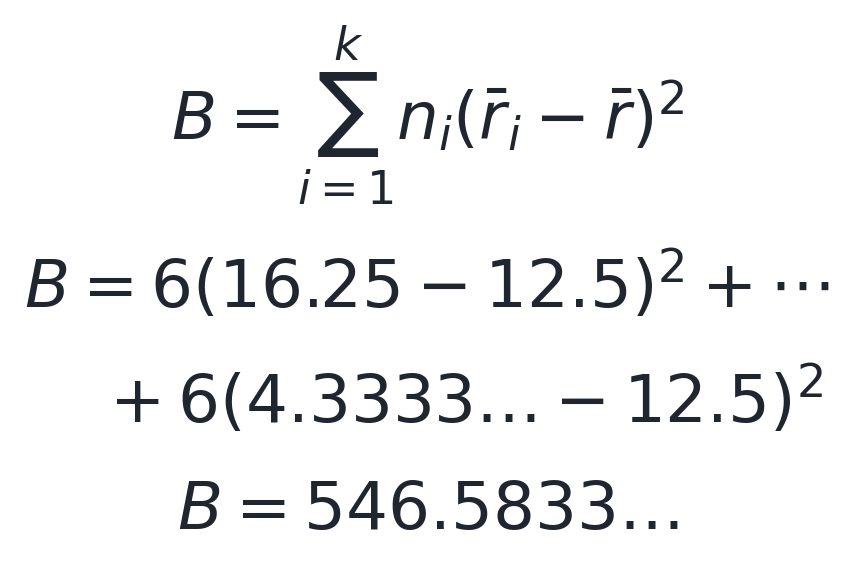
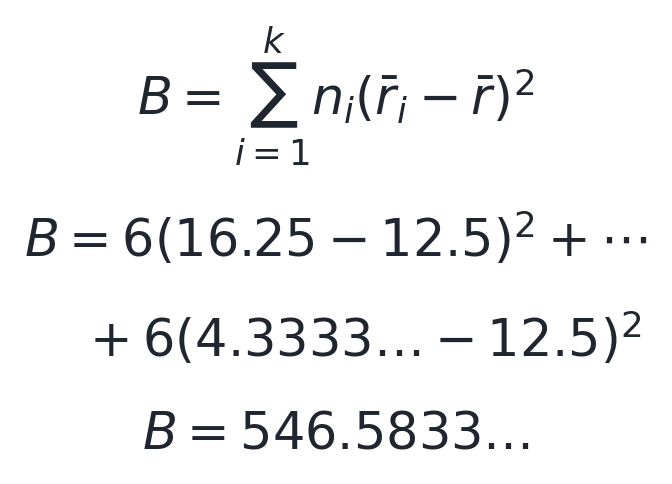
Use user-selected 17px formula typography

diff --git a/stats_classroom/article48_kruskal_wallis/手机预览.html b/stats_classroom/article48_kruskal_wallis/手机预览.html
@@ -24,7 +24,7 @@
 <table><thead><tr><th>指标/分</th><th>频数</th><th>占据序号</th><th>每个观测的秩</th></tr></thead><tbody><tr><td>−1</td><td>1</td><td>1</td><td>1</td></tr><tr><td>0</td><td>5</td><td>2—6</td><td>4</td></tr><tr><td>1</td><td>5</td><td>7—11</td><td>9</td></tr><tr><td>2</td><td>4</td><td>12—15</td><td>13.5</td></tr><tr><td>3</td><td>9</td><td>16—24</td><td>20</td></tr></tbody></table>
 <p>记总样本量为N、组数为k，第i组样本量为nᵢ；本例N＝24、k＝4，各nᵢ＝6。单只兔的合并秩记为rⱼ；第i组的秩和记为Rᵢ，平均秩记为r̄ᵢ＝Rᵢ/nᵢ。</p>
 <p>并列时用平均秩，保留了所有秩的总和。因此，合并秩的总平均仍由式（1）给出。</p>
-<p style="margin:22px 0 4px;text-align:center"><img alt="式1：合并秩的平均为一至N的序号和除以N，即(N加1)/2；24只兔的总平均秩是12.5" data-formula-font-css="22" data-formula-width="288.0" src="%E6%96%87%E7%AB%A0%E9%85%8D%E5%9B%BE/%E5%85%AC%E5%BC%8F01.png" style="display:block;width:288.0px;max-width:100%;height:auto;margin:18px auto 8px;border:0;"/></p>
+<p style="margin:22px 0 4px;text-align:center"><img alt="式1：合并秩的平均为一至N的序号和除以N，即(N加1)/2；24只兔的总平均秩是12.5" data-formula-font-css="17" data-formula-width="226.33" src="%E6%96%87%E7%AB%A0%E9%85%8D%E5%9B%BE/%E5%85%AC%E5%BC%8F01.png" style="display:block;width:226.33px;max-width:100%;height:auto;margin:18px auto 8px;border:0;"/></p>
 <p class="caption"><em>式（1）｜r̄表示所有观测的总平均秩，秩及H均无物理单位。</em></p>
 <p>按表2逐只替换评分再求和，就得到表3。例如Indomethacin组的秩和为13.5＋20＋20＋20＋20＋4＝97.5。四组秩和合计300，等于24×12.5。</p>
 <p class="caption"><em>表3｜各药物组在同一套合并秩中的位置</em></p>
@@ -34,50 +34,50 @@
 <h3>（一）先衡量各组分开了多少</h3>
 <p>每组平均秩减去总平均秩，表示这一组在共同排序中偏高还是偏低。直接相加会正负抵消，平方以后，两种方向都会增加统计量。</p>
 <p>为什么还要乘nᵢ？一组有nᵢ个观测，该组平均位置的偏离应按它代表的观测数计入。把该组每个观测都用组平均秩代表，nᵢ个相同的平方偏离相加，就得到式（2）的组间平方和B。这也正是方差分析中按组大小加权的组间变异构造。</p>
-<p style="margin:22px 0 4px;text-align:center"><img alt="式2：B为各组样本量乘平均秩离总平均秩的平方之和；兔例B等于546.5833" data-formula-font-css="22" data-formula-width="285.0" src="%E6%96%87%E7%AB%A0%E9%85%8D%E5%9B%BE/%E5%85%AC%E5%BC%8F02.png" style="display:block;width:285.0px;max-width:100%;height:auto;margin:18px auto 8px;border:0;"/></p>
+<p style="margin:22px 0 4px;text-align:center"><img alt="式2：B为各组样本量乘平均秩离总平均秩的平方之和；兔例B等于546.5833" data-formula-font-css="17" data-formula-width="224.0" src="%E6%96%87%E7%AB%A0%E9%85%8D%E5%9B%BE/%E5%85%AC%E5%BC%8F02.png" style="display:block;width:224.0px;max-width:100%;height:auto;margin:18px auto 8px;border:0;"/></p>
 <p class="caption"><em>式（2）｜B衡量组间平均秩的分开程度；数字演示省略的中间两项来自Aspirin和Piroxicam，实际计算包含四组全部贡献。</em></p>
 <p><strong>同样的平均秩偏离，出现在较大的组中，提供的证据通常更多</strong>：在相同的合并秩和总样本量下，大组平均秩的随机波动也更小。不过，B的大小还随总样本量和秩的取值范围改变，单看546.5833，仍无法判断异常程度。</p>
 <h3>（二）先看随机分组时，平均秩怎样波动</h3>
 <p>在H₀下，给定已经观察到的24个指标及四组大小，兔与组标签的对应可以交换。可以把24个合并秩写在24张有各自身份的签上，不放回地抽6张给第一组，再抽6张给第二组，直到分完。</p>
 <p>分组在变化，签上的数值没有变。式（3）先定义这套固定秩的方差sᵣ²。再把分配顺序中的第a个位置收到的秩记为Yₐ：每个位置都有同样的机会收到任意一张签，平均值是总平均秩r̄。</p>
-<p style="margin:22px 0 4px;text-align:center"><img alt="式3：固定合并秩的样本方差以N减1为分母；随机位置收到的秩Y的均值为总平均秩，方差为(N减1)/N乘s_r平方" data-formula-font-css="22" data-formula-width="236.0" src="%E6%96%87%E7%AB%A0%E9%85%8D%E5%9B%BE/%E5%85%AC%E5%BC%8F03.png" style="display:block;width:236.0px;max-width:100%;height:auto;margin:18px auto 8px;border:0;"/></p>
+<p style="margin:22px 0 4px;text-align:center"><img alt="式3：固定合并秩的样本方差以N减1为分母；随机位置收到的秩Y的均值为总平均秩，方差为(N减1)/N乘s_r平方" data-formula-font-css="17" data-formula-width="186.0" src="%E6%96%87%E7%AB%A0%E9%85%8D%E5%9B%BE/%E5%85%AC%E5%BC%8F03.png" style="display:block;width:186.0px;max-width:100%;height:auto;margin:18px auto 8px;border:0;"/></p>
 <p class="caption"><em>式（3）｜rⱼ是固定的第j个观测的秩；Yₐ是随机分配到第a个位置的秩。下标0表示在H₀下、给定合并秩计算。</em></p>
 <p>这里有两个分母：sᵣ²按通常样本方差的定义除以N−1；一个随机位置的秩，则等概率取这N个数，计算方差时除以N，所以它的方差是(N−1)/N倍的sᵣ²。</p>
 <p><strong>两次不放回抽取并不独立。</strong> 一个位置拿走高秩，留给其他位置的平均秩就会降低。更准确地说，所有位置的秩之和固定，因此这个总和的方差为0。各位置地位相同，任意两个不同位置的协方差也相同。式（3a）把总和的方差展开，就能求出这项负协方差。</p>
-<p style="margin:22px 0 4px;text-align:center"><img alt="式3a：全部位置秩的总和固定，因此总和方差为0；N个自身方差与N(N减1)个交叉协方差相加为0，得到不同位置协方差为负s_r平方除以N" data-formula-font-css="22" data-formula-width="308.0" src="%E6%96%87%E7%AB%A0%E9%85%8D%E5%9B%BE/%E5%85%AC%E5%BC%8F03a.png" style="display:block;width:308.0px;max-width:100%;height:auto;margin:18px auto 8px;border:0;"/></p>
+<p style="margin:22px 0 4px;text-align:center"><img alt="式3a：全部位置秩的总和固定，因此总和方差为0；N个自身方差与N(N减1)个交叉协方差相加为0，得到不同位置协方差为负s_r平方除以N" data-formula-font-css="17" data-formula-width="242.0" src="%E6%96%87%E7%AB%A0%E9%85%8D%E5%9B%BE/%E5%85%AC%E5%BC%8F03a.png" style="display:block;width:242.0px;max-width:100%;height:auto;margin:18px auto 8px;border:0;"/></p>
 <p class="caption"><em>式（3a）｜a、b为两个不同的分配位置；Cov表示协方差，用来描述两个随机量如何一起变化。</em></p>
 <p>把重分组后第i组的随机平均秩记为Ȳᵢ，它是该组nᵢ个位置的Y求平均。表3中的r̄ᵢ则是实际分组得到的观察值。计算Ȳᵢ的方差时，要把nᵢ个自身方差和nᵢ(nᵢ−1)个交叉协方差一起计入，再除以nᵢ²。式（3b）代入刚求出的两种波动，得到组平均秩的方差；不同组之间的每一对位置也都贡献同样的负协方差。</p>
-<p style="margin:22px 0 4px;text-align:center"><img alt="式3b：把组内各位置方差与协方差相加得到组平均秩方差s_r平方乘(1/n_i减1/N)；不同组平均秩协方差为负s_r平方除以N" data-formula-font-css="22" data-formula-width="269.0" src="%E6%96%87%E7%AB%A0%E9%85%8D%E5%9B%BE/%E5%85%AC%E5%BC%8F03b.png" style="display:block;width:269.0px;max-width:100%;height:auto;margin:18px auto 8px;border:0;"/></p>
+<p style="margin:22px 0 4px;text-align:center"><img alt="式3b：把组内各位置方差与协方差相加得到组平均秩方差s_r平方乘(1/n_i减1/N)；不同组平均秩协方差为负s_r平方除以N" data-formula-font-css="17" data-formula-width="211.67" src="%E6%96%87%E7%AB%A0%E9%85%8D%E5%9B%BE/%E5%85%AC%E5%BC%8F03b.png" style="display:block;width:211.67px;max-width:100%;height:auto;margin:18px auto 8px;border:0;"/></p>
 <p class="caption"><em>式（3b）｜Ȳᵢ、Ȳℓ随重分组改变；i与ℓ表示不同组。本例nᵢ＝6、N＝24，所以每组平均秩方差为sᵣ²/8，不同组平均秩协方差为−sᵣ²/24。</em></p>
 <p>这就是“不放回”的修正从哪里来。研究设计中，不同兔之间独立；在这里，我们固定全部观测后重分组，各组统计量还受共同总秩和的约束。</p>
 <h3>（三）用同一套秩波动，给组间平方和定尺度</h3>
 <p>H₀下，随机平均秩Ȳᵢ都以r̄为中心，所以它离r̄的平方偏离，平均起来就是式（3b）的方差。式（3c）将每组的贡献乘nᵢ相加，得到B的平均水平。</p>
-<p style="margin:22px 0 4px;text-align:center"><img alt="式3c：B的零假设期望等于各组样本量乘平均秩方差之和，等于(k减1)s_r平方；定义H为B除以s_r平方后，其期望为k减1" data-formula-font-css="22" data-formula-width="280.67" src="%E6%96%87%E7%AB%A0%E9%85%8D%E5%9B%BE/%E5%85%AC%E5%BC%8F03c.png" style="display:block;width:280.67px;max-width:100%;height:auto;margin:18px auto 8px;border:0;"/></p>
+<p style="margin:22px 0 4px;text-align:center"><img alt="式3c：B的零假设期望等于各组样本量乘平均秩方差之和，等于(k减1)s_r平方；定义H为B除以s_r平方后，其期望为k减1" data-formula-font-css="17" data-formula-width="220.67" src="%E6%96%87%E7%AB%A0%E9%85%8D%E5%9B%BE/%E5%85%AC%E5%BC%8F03c.png" style="display:block;width:220.67px;max-width:100%;height:auto;margin:18px auto 8px;border:0;"/></p>
 <p class="caption"><em>式（3c）｜期望对随机重分组取；B随分组改变，全部组的nᵢ/N相加为1。这一关系在有限样本下就成立。</em></p>
 <p>因此，H用<strong>组间的平方偏离B，除以这套合并秩的方差sᵣ²</strong>，将不同样本量和秩范围下的B放到共同尺度上。它与刚才的组平均秩方差、组间协方差使用同一套波动依据。</p>
 <p>算出H的平均水平是k−1，还不能据此认定它服从χ²。第六节会继续用式（3b）的方差和协方差，将本例H拆成三个标准化差的平方和，再说明大样本分布。</p>
 <p>先看没有并列的情况。秩就是1到N，利用连续整数及其平方的求和公式，式（4）得到围绕总平均秩的平方离差和及秩方差，也就得到未经并列校正的H∗。</p>
-<p style="margin:22px 0 4px;text-align:center"><img alt="式4：无并列时总秩平方和为N(N平方减1)/12；秩样本方差为N(N加1)/12；H星为B除以该方差" data-formula-font-css="22" data-formula-width="252.0" src="%E6%96%87%E7%AB%A0%E9%85%8D%E5%9B%BE/%E5%85%AC%E5%BC%8F04.png" style="display:block;width:252.0px;max-width:100%;height:auto;margin:18px auto 8px;border:0;"/></p>
+<p style="margin:22px 0 4px;text-align:center"><img alt="式4：无并列时总秩平方和为N(N平方减1)/12；秩样本方差为N(N加1)/12；H星为B除以该方差" data-formula-font-css="17" data-formula-width="198.67" src="%E6%96%87%E7%AB%A0%E9%85%8D%E5%9B%BE/%E5%85%AC%E5%BC%8F04.png" style="display:block;width:198.67px;max-width:100%;height:auto;margin:18px auto 8px;border:0;"/></p>
 <p class="caption"><em>式（4）｜base下标表示无并列时的基准秩方差；12来自连续整数的方差公式。没有并列时，H＝H∗。</em></p>
 <h3>（四）熟悉的秩和公式，只是把B展开</h3>
 <p>课堂常用的公式写成“秩和平方除以组大小，再求和”。式（5）用Rᵢ＝nᵢr̄ᵢ和固定的总秩和，把式（2）展开。</p>
-<p style="margin:22px 0 4px;text-align:center"><img alt="式5：把平均秩换成秩和，B等于秩和平方除组大小的总和减N乘总平均秩平方；代入得到H星的课堂公式" data-formula-font-css="22" data-formula-width="245.33" src="%E6%96%87%E7%AB%A0%E9%85%8D%E5%9B%BE/%E5%85%AC%E5%BC%8F05.png" style="display:block;width:245.33px;max-width:100%;height:auto;margin:18px auto 8px;border:0;"/></p>
+<p style="margin:22px 0 4px;text-align:center"><img alt="式5：把平均秩换成秩和，B等于秩和平方除组大小的总和减N乘总平均秩平方；代入得到H星的课堂公式" data-formula-font-css="17" data-formula-width="193.33" src="%E6%96%87%E7%AB%A0%E9%85%8D%E5%9B%BE/%E5%85%AC%E5%BC%8F05.png" style="display:block;width:193.33px;max-width:100%;height:auto;margin:18px auto 8px;border:0;"/></p>
 <p class="caption"><em>式（5）｜Rᵢ为第i组秩和，求和涵盖全部k组；末尾的−3(N＋1)来自减去共同中心。</em></p>
 <p>这样，12、N(N＋1)和−3(N＋1)都有了来处：前两者来自秩波动的尺度，最后一项来自围绕总平均秩计算偏离。H∗的核心始终是“各组平均秩分开了多少”。</p>
 <h2>四、有并列值，为什么要除以C？</h2>
 <p>本例并列很多，不能继续把1到24互不相同的秩方差直接用到底。</p>
 <p>平均秩保留总和，却压缩了波动。就看表2中本例的5个0分：它们原来占第2至6位，现在都取平均秩4。式（6）计算这一步消掉的平方偏离；连续t个序号的一般结果，可由式（4）将N换为t得到。</p>
-<p style="margin:22px 0 4px;text-align:center"><img alt="式6：本例0分对应秩2到6，全部换成4后消掉平方偏离10；t个连续秩取平均会损失(t立方减t)/12" data-formula-font-css="22" data-formula-width="317.0" src="%E6%96%87%E7%AB%A0%E9%85%8D%E5%9B%BE/%E5%85%AC%E5%BC%8F06.png" style="display:block;width:317.0px;max-width:100%;height:auto;margin:18px auto 8px;border:0;"/></p>
+<p style="margin:22px 0 4px;text-align:center"><img alt="式6：本例0分对应秩2到6，全部换成4后消掉平方偏离10；t个连续秩取平均会损失(t立方减t)/12" data-formula-font-css="17" data-formula-width="248.67" src="%E6%96%87%E7%AB%A0%E9%85%8D%E5%9B%BE/%E5%85%AC%E5%BC%8F06.png" style="display:block;width:248.67px;max-width:100%;height:auto;margin:18px auto 8px;border:0;"/></p>
 <p class="caption"><em>式（6）｜t是同一观测值的个数。连续序号整体平移不改变它们围绕自身平均数的平方和。</em></p>
 <p>虽然式（6）先围绕这一小段的平均秩4计算，但围绕总平均秩12.5计算时，损失仍是10：替换前后，这5个秩的总和相同，整段相对总中心的那部分偏离保留下来，只消掉段内的分散。</p>
 <p>对表2的五种取值分别计算，并列损失依次是0、10、10、5、60，合计85。若1到24互不并列，总秩平方和为1150、秩方差为50。式（7）从这里一步步得到本例的实际方差及其比例C。</p>
-<p style="margin:22px 0 4px;text-align:center"><img alt="式7：兔例无并列总秩平方和1150减去并列损失85得到1065；实际秩方差1065/23约46.30435；除以无并列方差50得到C约0.926087" data-formula-font-css="22" data-formula-width="318.33" src="%E6%96%87%E7%AB%A0%E9%85%8D%E5%9B%BE/%E5%85%AC%E5%BC%8F07.png" style="display:block;width:318.33px;max-width:100%;height:auto;margin:18px auto 8px;border:0;"/></p>
+<p style="margin:22px 0 4px;text-align:center"><img alt="式7：兔例无并列总秩平方和1150减去并列损失85得到1065；实际秩方差1065/23约46.30435；除以无并列方差50得到C约0.926087" data-formula-font-css="17" data-formula-width="249.67" src="%E6%96%87%E7%AB%A0%E9%85%8D%E5%9B%BE/%E5%85%AC%E5%BC%8F07.png" style="display:block;width:249.67px;max-width:100%;height:auto;margin:18px auto 8px;border:0;"/></p>
 <p class="caption"><em>式（7）｜平方和都围绕总平均秩12.5计算；sᵣ²使用N−1＝23的分母。C是实际秩方差与无并列基准方差的比。</em></p>
 <p>这样看，C记录的就是<strong>并列以后，还保留了原来多少比例的秩波动</strong>。对任意数据，把每个并列块的损失相加，再除以无并列总平方和，就得到式（7a）的通用校正公式。单个观测t＝1时，损失为0<sup>[2]</sup>。</p>
-<p style="margin:22px 0 4px;text-align:center"><img alt="式7a：C等于1减各并列块(t立方减t)之和除以(N立方减N)，实际合并秩方差等于无并列基准方差乘C" data-formula-font-css="22" data-formula-width="200.33" src="%E6%96%87%E7%AB%A0%E9%85%8D%E5%9B%BE/%E5%85%AC%E5%BC%8F07a.png" style="display:block;width:200.33px;max-width:100%;height:auto;margin:18px auto 8px;border:0;"/></p>
+<p style="margin:22px 0 4px;text-align:center"><img alt="式7a：C等于1减各并列块(t立方减t)之和除以(N立方减N)，实际合并秩方差等于无并列基准方差乘C" data-formula-font-css="17" data-formula-width="158.67" src="%E6%96%87%E7%AB%A0%E9%85%8D%E5%9B%BE/%E5%85%AC%E5%BC%8F07a.png" style="display:block;width:158.67px;max-width:100%;height:auto;margin:18px auto 8px;border:0;"/></p>
 <p class="caption"><em>式（7a）｜tℓ是第ℓ种取值的频数，本例为1、5、5、4、9；各块的tℓ³−tℓ合计1020，除以12就是总损失85。</em></p>
 <p><strong>H仍然等于B除以实际合并秩方差。</strong> 原来的H∗除以基准方差50；现在分母换成50C，便得到式（8）的H∗除以C。</p>
-<p style="margin:22px 0 4px;text-align:center"><img alt="式8：校正H等于B除以实际秩方差，也等于H星除以C；兔例546.583333除以46.304348得到H约11.8041471" data-formula-font-css="22" data-formula-width="248.0" src="%E6%96%87%E7%AB%A0%E9%85%8D%E5%9B%BE/%E5%85%AC%E5%BC%8F08.png" style="display:block;width:248.0px;max-width:100%;height:auto;margin:18px auto 8px;border:0;"/></p>
+<p style="margin:22px 0 4px;text-align:center"><img alt="式8：校正H等于B除以实际秩方差，也等于H星除以C；兔例546.583333除以46.304348得到H约11.8041471" data-formula-font-css="17" data-formula-width="195.33" src="%E6%96%87%E7%AB%A0%E9%85%8D%E5%9B%BE/%E5%85%AC%E5%BC%8F08.png" style="display:block;width:195.33px;max-width:100%;height:auto;margin:18px auto 8px;border:0;"/></p>
 <p class="caption"><em>式（8）｜程序使用未舍入的中间量；分母从无并列基准改为实际秩方差，说明了为什么是除以C。</em></p>
 <p>若所有观测都相同，实际秩方差为0，所有组平均秩也完全相同，H成为0/0，没有可供这种检验使用的秩变异。通常只要秩方差非零，便可按式（8）计算。</p>
 <p>把秩代入普通ANOVA，也能得到同一个组间平方和B和总平方和；但普通ANOVA构造的是组间与组内均方之比F，并使用F参照。<strong>变异分解相通，不等于可以把普通ANOVA的F检验P值直接当作KW的P值。</strong></p>
@@ -87,7 +87,7 @@
 <p>在独立、各组同分布的H₀下，给定这些观测和各组大小，组标签可交换。保留四组各6只，把24只<strong>有各自身份的兔</strong>重新分到四个有名称的组；每一个允许的身份划分等概率。每轮对新分组求秩和、B和H，就产生H的条件零分布。秩方法与置换推断正是在这里接起来的<sup>[2]</sup>。</p>
 <p>“固定观测”也意味着并列频数不变，因此总平均秩、秩方差及C每轮都相同，只有秩怎样分到各组发生变化。在这套固定观测上，H、H∗和B给出同一尾部排序，按大值选出的分组完全相同。</p>
 <p>如果逐一计算全部合法划分，式（9）就给出精确条件P值。M是合法划分的总数，#表示满足条件的划分个数。</p>
-<p style="margin:22px 0 4px;text-align:center"><img alt="式9：合法分组总数M为N阶乘除以各组样本量阶乘之积；精确P是H达到或超过观察值的划分数除以M" data-formula-font-css="22" data-formula-width="275.67" src="%E6%96%87%E7%AB%A0%E9%85%8D%E5%9B%BE/%E5%85%AC%E5%BC%8F09.png" style="display:block;width:275.67px;max-width:100%;height:auto;margin:18px auto 8px;border:0;"/></p>
+<p style="margin:22px 0 4px;text-align:center"><img alt="式9：合法分组总数M为N阶乘除以各组样本量阶乘之积；精确P是H达到或超过观察值的划分数除以M" data-formula-font-css="17" data-formula-width="217.0" src="%E6%96%87%E7%AB%A0%E9%85%8D%E5%9B%BE/%E5%85%AC%E5%BC%8F09.png" style="display:block;width:217.0px;max-width:100%;height:auto;margin:18px auto 8px;border:0;"/></p>
 <p class="caption"><em>式（9）｜固定各组大小、单位身份划分等概率；尾部包含H等于观察值的情况，也包括观察到的划分。</em></p>
 <p>这正是<strong>小样本精确检验</strong>的思路。它不靠原始评分正态，也不靠把H先近似成某条连续曲线。精确算法还可以用递推等办法汇总同样的概率，不一定要实际列出每个划分。</p>
 <p>并列值不会破坏这个思路，但会使多个身份划分产生同一套组内秩。如果为了加速把重复秩格局合并，就必须保留它们对应的<strong>组合数权重</strong>。等概率的是合法的身份划分，合并后的不同秩格局未必等概率。</p>
@@ -98,29 +98,29 @@
 <p>先比较第一组与第二组；再把前两组作为一个合并组，比较它们的平均秩与第三组；最后把前三组合并，与第四组比较。四组就这样经过三次合并，成为一个总体。</p>
 <p>每个差都需要除以它在H₀下的标准差。以第一步为例，差的方差是“两组各自的方差之和，减去两倍协方差”。代入式（3b），两项−sᵣ²/N会与协方差项抵消，得到2sᵣ²/n。</p>
 <p>这个抵消对任意两个互不重叠的合并块也成立：两块各有m、n个观测，差的方差便是sᵣ²(1/m＋1/n)。因此，三步所用的块大小分别为6与6、12与6、18与6。式（10）先写出通用的差方差，再列出对应的三个标准化差Z₁、Z₂、Z₃。</p>
-<p style="margin:22px 0 4px;text-align:center"><img alt="式10：用零假设标准差缩放三步平均秩差，Z1比较第一与第二组，Z2比较前两组平均与第三组，Z3比较前三组平均与第四组" data-formula-font-css="22" data-formula-width="285.67" src="%E6%96%87%E7%AB%A0%E9%85%8D%E5%9B%BE/%E5%85%AC%E5%BC%8F10.png" style="display:block;width:285.67px;max-width:100%;height:auto;margin:18px auto 8px;border:0;"/></p>
+<p style="margin:22px 0 4px;text-align:center"><img alt="式10：用零假设标准差缩放三步平均秩差，Z1比较第一与第二组，Z2比较前两组平均与第三组，Z3比较前三组平均与第四组" data-formula-font-css="17" data-formula-width="224.67" src="%E6%96%87%E7%AB%A0%E9%85%8D%E5%9B%BE/%E5%85%AC%E5%BC%8F10.png" style="display:block;width:224.67px;max-width:100%;height:auto;margin:18px auto 8px;border:0;"/></p>
 <p class="caption"><em>式（10）｜d表示两个互不重叠块的随机平均秩之差。三个Z的分母分别对应块大小6与6、12与6、18与6；这里n＝6。等组量的合并平均，就是各组平均秩的算术平均。</em></p>
 <p>代入本次观察值，第一步的差为2.083333，标准差约3.928713，Z₁约0.530284；第二步按式（10）代入m＝12、n＝6，标准差约3.402365。表4列出三个Z的观察值和各自平方贡献。</p>
 <p class="caption"><em>表4｜兔例H分解成三个标准化差的平方贡献</em></p>
 <table><thead><tr><th>合并步骤</th><th>观察Z值</th><th>Z²贡献</th></tr></thead><tbody><tr><td>第1组与第2组</td><td>0.530284</td><td>0.281201</td></tr><tr><td>前2组与第3组</td><td>−0.012246</td><td>0.000150</td></tr><tr><td>前3组与第4组</td><td>3.394524</td><td>11.522796</td></tr><tr><td>平方贡献合计</td><td>—</td><td>11.804147</td></tr></tbody></table>
 <p>前三药之间在前两步贡献很小，前三药与BW755C的分离贡献了大部分H。这里的三步是理解整体统计量的一种分解；整体检验的结论仍由一个H判断。</p>
 <p>为什么平方贡献相加，恰好等于H？四组等量，在任意一次重分组中，四个Ȳᵢ的平均都是固定的总平均秩r̄。把式（10）的三个平方展开，利用四个Ȳᵢ偏离r̄的和为0，就得到式（10a）的恒等式。</p>
-<p style="margin:22px 0 4px;text-align:center"><img alt="式10a：三个标准化差的平方和恰为n除以s_r平方乘四组平均秩偏离总平均秩的平方和，即B除以s_r平方，也就是H" data-formula-font-css="22" data-formula-width="204.67" src="%E6%96%87%E7%AB%A0%E9%85%8D%E5%9B%BE/%E5%85%AC%E5%BC%8F10a.png" style="display:block;width:204.67px;max-width:100%;height:auto;margin:18px auto 8px;border:0;"/></p>
+<p style="margin:22px 0 4px;text-align:center"><img alt="式10a：三个标准化差的平方和恰为n除以s_r平方乘四组平均秩偏离总平均秩的平方和，即B除以s_r平方，也就是H" data-formula-font-css="17" data-formula-width="162.0" src="%E6%96%87%E7%AB%A0%E9%85%8D%E5%9B%BE/%E5%85%AC%E5%BC%8F10a.png" style="display:block;width:162.0px;max-width:100%;height:auto;margin:18px auto 8px;border:0;"/></p>
 <p class="caption"><em>式（10a）｜这是本例四组等量时的代数恒等式，有限样本也成立；它本身还没有使用正态近似。</em></p>
 <h3>（二）为什么这三个差，在大样本下可以当作独立标准正态量？</h3>
 <p>式（3b）已经说明，四个组平均秩彼此相关。经过式（10）这种安排，三个差的系数却会让交叉协方差抵消。</p>
 <p>看前两步就能理解：第一步中，前两组一正一负；第二步中，前两组各占一半，权重相同。因为两组的方差相同、与其余组的协方差也相同，正负两部分的协方差贡献恰好抵消。第三步与前两步也有相同的抵消结构。式（10b）把前两步的未标准化差D₁、D₂实际展开一次：各组方差相同、不同组协方差相同，正负项便逐项抵消。除以固定标准差后，协方差仍为0。</p>
-<p style="margin:22px 0 4px;text-align:center"><img alt="式10b：前两步未标准化差为Y1减Y2和前两组均值减Y3，协方差展开后自身方差相减、不同组协方差相减，得到0" data-formula-font-css="22" data-formula-width="323.67" src="%E6%96%87%E7%AB%A0%E9%85%8D%E5%9B%BE/%E5%85%AC%E5%BC%8F10b.png" style="display:block;width:323.67px;max-width:100%;height:auto;margin:18px auto 8px;border:0;"/></p>
+<p style="margin:22px 0 4px;text-align:center"><img alt="式10b：前两步未标准化差为Y1减Y2和前两组均值减Y3，协方差展开后自身方差相减、不同组协方差相减，得到0" data-formula-font-css="17" data-formula-width="254.0" src="%E6%96%87%E7%AB%A0%E9%85%8D%E5%9B%BE/%E5%85%AC%E5%BC%8F10b.png" style="display:block;width:254.0px;max-width:100%;height:auto;margin:18px auto 8px;border:0;"/></p>
 <p class="caption"><em>式（10b）｜v是每组随机平均秩的方差，c是任意不同组平均秩的协方差；本例v＝5.7880435、c＝−1.9293478。D₁、D₂分别是式（10）Z₁、Z₂的分子。</em></p>
 <p>因此，三个Z的均值均为0、方差均为1，彼此协方差为0。</p>
 <p><strong>有限样本下，零协方差还不能推出独立或正态。</strong> 当组数固定、各组样本量增长、各组比例不趋于0，且秩的总变异非零、没有极少数观测支配它，满足秩和中心极限定理的常规条件时，这些组秩统计量才有联合正态极限。趋近正态的是H₀下重分组产生的统计量；原始评分不必正态<sup>[2]</sup>。</p>
 <p>在联合正态极限中，零协方差才进一步给出独立。于是Z₁、Z₂、Z₃趋近三个独立标准正态量，它们的平方和H就趋近χ²(3)。</p>
 <h3>（三）为什么一般是k−1个方向？</h3>
 <p>组大小不等时，每次合并要按人数加权。若前面的合并组有m个观测，新加入的组有n个观测，式（10c）给出两者平均秩差的标准差，以及这一步记录的组间平方和贡献。</p>
-<p style="margin:22px 0 4px;text-align:center"><img alt="式10c：合并m个与n个观测的两部分时，平均秩差标准差为s_r乘根号(1/m加1/n)，新增组间平方和为mn除以m加n乘平均秩差平方；除以s_r平方就是本步Z平方" data-formula-font-css="22" data-formula-width="213.67" src="%E6%96%87%E7%AB%A0%E9%85%8D%E5%9B%BE/%E5%85%AC%E5%BC%8F10c.png" style="display:block;width:213.67px;max-width:100%;height:auto;margin:18px auto 8px;border:0;"/></p>
+<p style="margin:22px 0 4px;text-align:center"><img alt="式10c：合并m个与n个观测的两部分时，平均秩差标准差为s_r乘根号(1/m加1/n)，新增组间平方和为mn除以m加n乘平均秩差平方；除以s_r平方就是本步Z平方" data-formula-font-css="17" data-formula-width="169.0" src="%E6%96%87%E7%AB%A0%E9%85%8D%E5%9B%BE/%E5%85%AC%E5%BC%8F10c.png" style="display:block;width:169.0px;max-width:100%;height:auto;margin:18px auto 8px;border:0;"/></p>
 <p class="caption"><em>式（10c）｜d为合并前两部分的平均秩之差；ΔB表示这一步记录的组间平方和贡献，sᵣ仍来自全部N个合并秩。</em></p>
 <p>每加入一组，就增加一个标准化差。k组需要k−1次合并；各次新增平方和加起来，就是总的B。因此，不等组量也能将H写成k−1个这类标准化差的平方和。按人数加权后，新一步对前面各组的同向权重，与先前差中的正负权重相抵消，仍得到零协方差。它们在上述渐近条件下具有独立标准正态极限，所以得到式（10d）的χ²(k−1)参照。</p>
-<p style="margin:22px 0 4px;text-align:center"><img alt="式10d：在零假设与常规渐近条件下H趋近自由度k减1的卡方分布，近似P为该分布达到或超过观察H的右尾概率" data-formula-font-css="22" data-formula-width="248.67" src="%E6%96%87%E7%AB%A0%E9%85%8D%E5%9B%BE/%E5%85%AC%E5%BC%8F10d.png" style="display:block;width:248.67px;max-width:100%;height:auto;margin:18px auto 8px;border:0;"/></p>
+<p style="margin:22px 0 4px;text-align:center"><img alt="式10d：在零假设与常规渐近条件下H趋近自由度k减1的卡方分布，近似P为该分布达到或超过观察H的右尾概率" data-formula-font-css="17" data-formula-width="196.0" src="%E6%96%87%E7%AB%A0%E9%85%8D%E5%9B%BE/%E5%85%AC%E5%BC%8F10d.png" style="display:block;width:196.0px;max-width:100%;height:auto;margin:18px auto 8px;border:0;"/></p>
 <p class="caption"><em>式（10d）｜箭头表示大样本分布趋近；近似的是前一节由标签重分配产生的条件零分布及其右尾概率。</em></p>
 <p>总秩和固定，使k组平均秩的偏离受一个约束；逐次合并只需k−1步，也从计算上看到了同一个自由度。小样本时，前面的代数分解仍成立，但正态极限未必足够接近，不能把它直接当作精确χ²分布。</p>
 <p>兔例k＝4，自由度为3。按式（10d）算得χ²近似P＝0.00808509。R的<code>kruskal.test()</code>接受“响应变量～分组变量”的公式；<code>data</code>指定数据表，返回的检验对象包含校正后统计量、近似自由度和P值。<strong>这个函数采用χ²近似，小样本也不会自动切换到精确枚举</strong><sup>[3]</sup>。</p>
@@ -137,7 +137,7 @@ c(H = unname(fit$statistic),
 <p>假设另有一个培养实验：6个相互独立的培养瓶随机分到A、B、C三种培养条件，每组2瓶。在相同培养时间结束时，每瓶测一次产物浓度，单位为mg/L。全部假设数据为：<strong>A组1、2；B组3、4；C组5、6</strong>。本例无缺失、无并列。</p>
 <p>本例检验H₀：三组浓度总体分布相同；在H₀下，给定这6个观测及每组2瓶，培养条件标签可交换。检验水准为0.05。我们要计算观察到的H、完整枚举的精确P，以及χ²近似P，比较两种推断方式。</p>
 <p>六个数的秩恰为1到6，总平均秩是3.5。式（11）先算这次实际分组的H。</p>
-<p style="margin:22px 0 4px;text-align:center"><img alt="式11：三组平均秩1.5、3.5、5.5，以样本量2加权求偏离平方并标准化，H为32/7约4.5714286" data-formula-font-css="22" data-formula-width="329.0" src="%E6%96%87%E7%AB%A0%E9%85%8D%E5%9B%BE/%E5%85%AC%E5%BC%8F11.png" style="display:block;width:329.0px;max-width:100%;height:auto;margin:18px auto 8px;border:0;"/></p>
+<p style="margin:22px 0 4px;text-align:center"><img alt="式11：三组平均秩1.5、3.5、5.5，以样本量2加权求偏离平方并标准化，H为32/7约4.5714286" data-formula-font-css="17" data-formula-width="258.0" src="%E6%96%87%E7%AB%A0%E9%85%8D%E5%9B%BE/%E5%85%AC%E5%BC%8F11.png" style="display:block;width:258.0px;max-width:100%;height:auto;margin:18px auto 8px;border:0;"/></p>
 <p class="caption"><em>式（11）｜本例N＝6、k＝3、各nᵢ＝2；无并列，无需并列校正。</em></p>
 <p>接下来，从6个有身份的瓶中选2个给A组，有15种选择；再从剩下4个中选2个给B组，有6种；最后2个自动归C组。于是，总共15×6＝90个等概率划分。</p>
 <p>比如原划分的三组秩和是3、7、11，H约4.5714；若A取1、6，B取2、5，C取3、4，三个秩和都为7，H就是0。逐个计算90次，再把相同H的划分数加起来，就得到表5的<strong>完整条件零分布</strong>。</p>
@@ -172,7 +172,7 @@ c(total = length(h_all),
 <p>这时合法身份划分有<strong>2,308,743,493,056</strong>个。完整逐一枚举已不适合课堂练习。每轮均匀打乱24只兔的标签对应，按6、6、6、6重新分组，就能从同一个条件零分布抽取一个H；多轮之间允许抽到重复划分。</p>
 <p>本篇进行<strong>199999次独立随机置换</strong>，记其中H达到或超过11.8041471的次数为b。式（12）用加1的Monte Carlo P值处理观察到的划分，同时给出近似Monte Carlo标准误，用来衡量有限模拟次数带来的计算波动<sup>[5]</sup>。</p>
 <p style="text-align:left">加1的计算依据：<a href="https://doi.org/10.2202/1544-6115.1585" rel="noopener" target="_blank">https://doi.org/10.2202/1544-6115.1585</a></p>
-<p style="margin:22px 0 4px;text-align:center"><img alt="式12：蒙特卡洛P估计为(b加1)/(模拟次数加1)，标准误近似为根号下P估计乘1减P估计除以模拟次数" data-formula-font-css="22" data-formula-width="197.67" src="%E6%96%87%E7%AB%A0%E9%85%8D%E5%9B%BE/%E5%85%AC%E5%BC%8F12.png" style="display:block;width:197.67px;max-width:100%;height:auto;margin:18px auto 8px;border:0;"/></p>
+<p style="margin:22px 0 4px;text-align:center"><img alt="式12：蒙特卡洛P估计为(b加1)/(模拟次数加1)，标准误近似为根号下P估计乘1减P估计除以模拟次数" data-formula-font-css="17" data-formula-width="156.67" src="%E6%96%87%E7%AB%A0%E9%85%8D%E5%9B%BE/%E5%85%AC%E5%BC%8F12.png" style="display:block;width:156.67px;max-width:100%;height:auto;margin:18px auto 8px;border:0;"/></p>
 <p class="caption"><em>式（12）｜B_MC表示模拟次数，区别于前文组间平方和B；b只数随机置换中进入尾部的次数。</em></p>
 <p>Python本次实际有679次进入尾部，按式（12）得到P̂＝680/200000＝<strong>0.003400</strong>，Monte Carlo标准误约<strong>0.000130</strong>。以约两倍标准误描述计算波动，大致是0.00314至0.00366。</p>
 <p>R和MATLAB本次各有644次进入尾部，估计P均为0.003225，与Python结果的差异约为一个合并Monte Carlo标准误。不同语言即使用相同种子，也未必产生相同的随机序列。</p>
